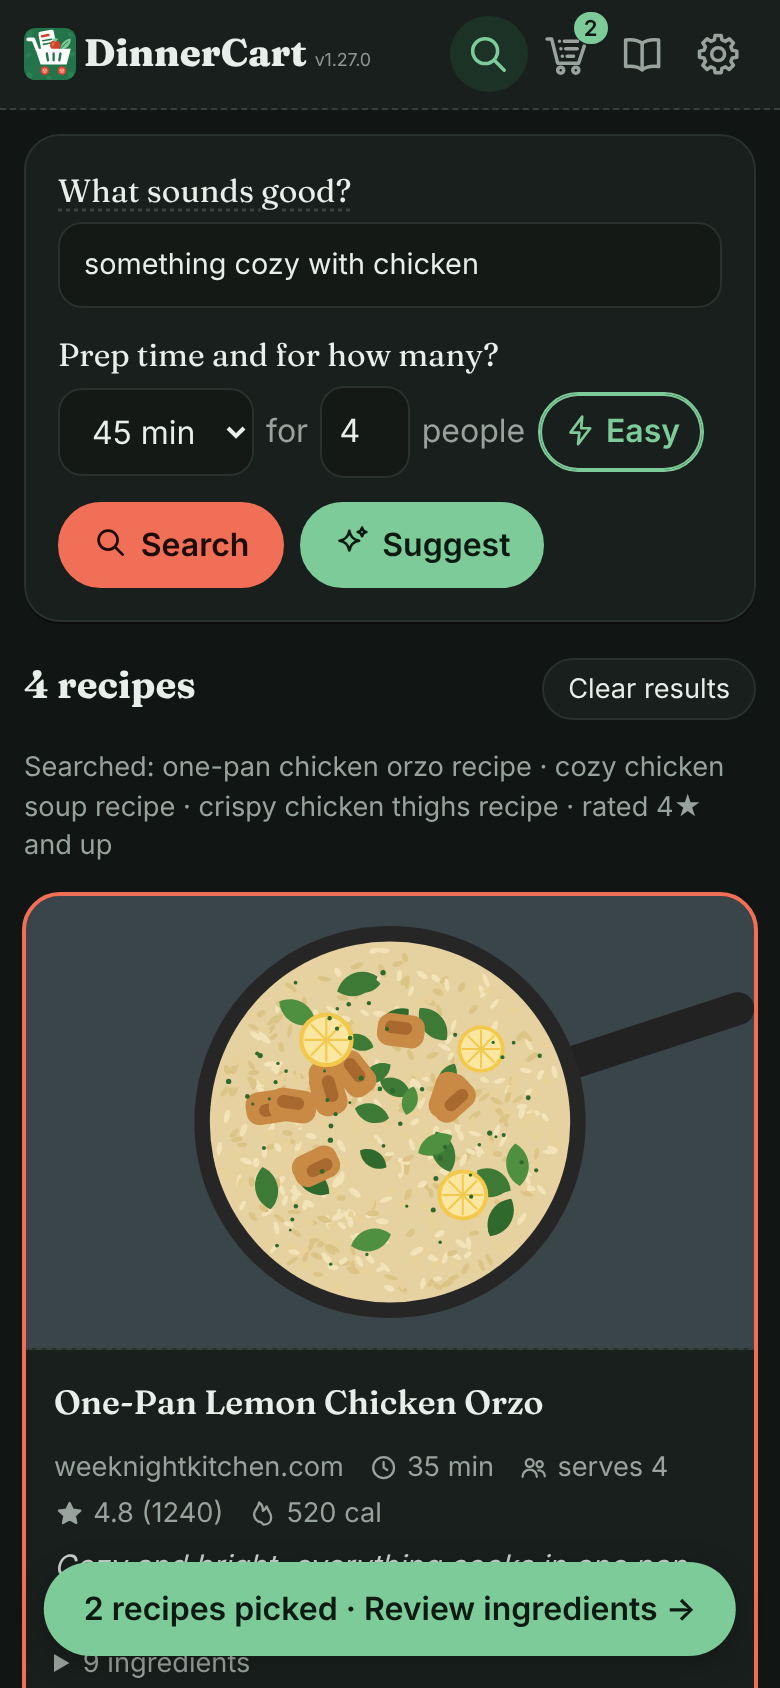
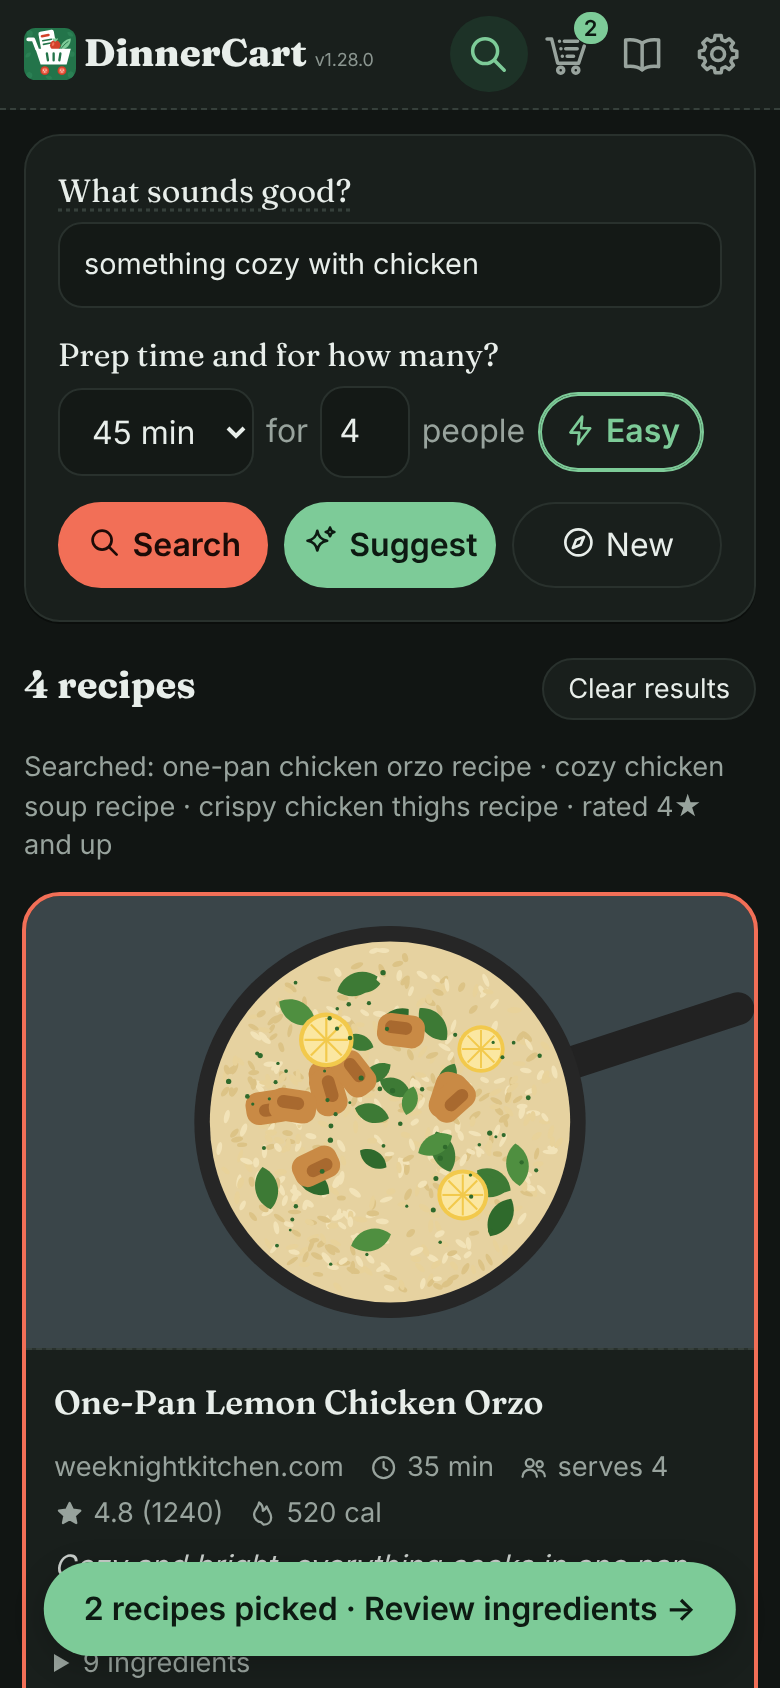
Search tab: "New" button (compass), the opposite of Suggest. Version 1.28.0.
- New reads the saved recipes to see what the household usually cooks, then
  writes queries for clearly different dishes (another cuisine, main
  ingredient and cooking style), still within anything typed. Ranking favors
  recipes unlike the saved ones, near-copies score low, and each reason says
  what's new. With nothing saved, it picks a mix of cuisines.
- Like Suggest it skips saved recipes and honors time, Easy, the leave-out
  list and the rating minimum. Results read "New to you: N recipes · Unlike
  your N saved recipes".
- Search, Suggest and New sit in one row of equal pills down to 320px.
- Tests for New; README text and screenshots updated.

Claude-Session: https://claude.ai/code/session_011FokuADmYxJrxvpFhkfgRT

Changed region(s): [[0.1231, 0.2773, 0.8615, 0.3697]]

diff --git a/web/js/recipes.js b/web/js/recipes.js
@@ -24,13 +24,18 @@ export function describeTaste(liked) {
 
 const QUERY_RULES = 'Each query should include the word "recipe", be 3-8 words, and approach it from a different angle. Don\'t put time limits or ratings in the query. Target free recipe sites/blogs, not videos or forums.';
 
-// `liked` (saved recipes) switches to recommendation mode: queries for new
-// dishes in the same vein, with any filled-in criteria as extra guidance.
-export async function generateQueries(gemini, criteria, { liked } = {}) {
+// `liked` (saved recipes) switches to Suggest: queries for new dishes in the
+// same vein, with any filled-in criteria as extra guidance. With `novel` too
+// (New), it's the opposite: dishes unlike anything they've saved.
+export async function generateQueries(gemini, criteria, { liked, novel = false } = {}) {
   const extra = describeCriteria(criteria);
   let prompt;
   const rules = `${QUERY_RULES}${criteria.easy ? ' They want it easy: put a word like "easy", "simple", "one-pan" or "5-ingredient" in at least two of the queries.' : ''}`;
-  if (!liked) {
+  if (liked && novel) {
+    prompt = liked.length
+      ? `A couple wants to try something new. Recipes they've saved (what they usually cook):\n${describeTaste(liked)}\n${extra ? `\nThey also said:\n${extra}\n` : ''}\nWrite 3 different web search queries for dishes clearly DIFFERENT from what they've saved: other cuisines, main ingredients or cooking methods than the ones above${extra ? ', while still matching what they said' : ''}. Mix it up: one from a cuisine they haven't saved anything from, one built on a main ingredient they rarely or never use, one cooking style they haven't tried (for example a braise, noodle soup, grain bowl or dumplings). Keep them approachable home dinners, not restaurant projects. ${rules}`
+      : `A couple wants to try something new for dinner.${extra ? `\nThey said:\n${extra}` : ''}\n\nWrite 3 different web search queries from three clearly different cuisines or styles of cooking, the kind of thing people don't make every week. Keep them approachable home dinners. ${rules}`;
+  } else if (!liked) {
     prompt = `Write 3 different web search queries that will find free recipe pages matching:\n${extra}\n\n${rules} (e.g. a specific dish, a key ingredient, a style).`;
   } else if (liked.length) {
     prompt = `A couple wants dinner ideas they'll probably like. Recipes they've saved (their taste):\n${describeTaste(liked)}\n${extra ? `\nThey also said:\n${extra}\n` : ''}\nWrite 3 different web search queries for NEW dishes they'd likely enjoy: related in cuisine, flavors or main ingredients to what they've saved, but not the same dishes. Mix it up: one close to their favorites, one from a neighboring cuisine, one a fresh take on an ingredient they use often. ${rules}`;
@@ -104,15 +109,18 @@ export function filterRecipes(recipes, c) {
   return { kept, rejected };
 }
 
-export async function rankRecipes(gemini, recipes, criteria, { liked } = {}) {
+export async function rankRecipes(gemini, recipes, criteria, { liked, novel = false } = {}) {
   if (!recipes.length) return [];
   const list = recipes.map((r, i) => [
     `[${i}] ${r.name} (${r.site})`,
     `time: ${r.totalMinutes ?? '?'} min; serves: ${r.servings ?? '?'}; steps: ${stepCount(r) ?? '?'}; rating: ${r.rating ? `${r.rating.value} (${r.rating.count ?? '?'} ratings)` : '?'}`,
     `ingredients: ${r.ingredients.slice(0, 25).join('; ')}`,
   ].join('\n')).join('\n\n');
+  const said = describeCriteria(criteria);
   const out = await gemini.json(
-    liked?.length
+    novel
+      ? `A couple wants to try something new.${liked?.length ? ` Recipes they've saved (what they usually cook):\n${describeTaste(liked)}\n` : '\n'}${said ? `\nThey also said:\n${said}\n` : ''}\nCandidate recipes:\n${list}\n\nScore each recipe 0-100: favor recipes clearly unlike what they've saved (a different cuisine, main ingredient or cooking method) that still fit anything they said, then ratings with many reviews. Near-copies of a saved recipe score below 20. Recipes that clearly contain an excluded ingredient score below 10. Give a one-sentence reason that says what's new about it for them.`
+      : liked?.length
       ? `A couple is choosing what to cook. Recipes they've saved (their taste):\n${describeTaste(liked)}\n${describeCriteria(criteria) ? `\nThey also said:\n${describeCriteria(criteria)}\n` : ''}\nCandidate recipes:\n${list}\n\nScore each recipe 0-100 for how likely they are to enjoy it given their taste (and anything they said), favoring variety over near-copies of what they've saved, then ratings with many reviews. Recipes that clearly contain an excluded ingredient score below 10. Give a one-sentence reason that connects it to their taste.`
       : `A couple is choosing what to cook. Their request:\n${describeCriteria(criteria) || 'Anything good for dinner'}\n\nCandidate recipes:\n${list}\n\nScore each recipe 0-100 for how well it fits the request (fit matters most, then ratings with many reviews, then a reasonable ingredient list). Recipes that clearly contain an excluded ingredient score below 10. Give a one-sentence reason a person would find useful (what makes it a good or poor fit).`,
     S.obj({ ranking: S.arr(S.obj({ index: S.int(), score: S.int(), reason: S.str() })) }),
@@ -124,10 +132,10 @@ export async function rankRecipes(gemini, recipes, criteria, { liked } = {}) {
   return scored.sort((a, b) => b.score - a.score);
 }
 
-// Pass `liked` (saved recipes, possibly empty) for recommendations.
-export async function findRecipes({ gemini, relay, criteria, liked, maxPages = 15, onProgress = () => {} }) {
-  onProgress(liked ? 'Thinking about what you might like…' : 'Writing search queries…');
-  const queries = await generateQueries(gemini, criteria, { liked });
+// Pass `liked` (saved recipes, possibly empty) for Suggest, plus `novel` for New.
+export async function findRecipes({ gemini, relay, criteria, liked, novel = false, maxPages = 15, onProgress = () => {} }) {
+  onProgress(novel ? 'Looking for something different…' : liked ? 'Thinking about what you might like…' : 'Writing search queries…');
+  const queries = await generateQueries(gemini, criteria, { liked, novel });
   if (!queries.length) throw new Error('Gemini did not return any search queries.');
 
   onProgress(`Searching: ${queries.join(' · ')}`);
@@ -143,7 +151,7 @@ export async function findRecipes({ gemini, relay, criteria, liked, maxPages = 1
   onProgress(`Ranking ${kept.length} recipes…`);
   let ranked;
   try {
-    ranked = await rankRecipes(gemini, kept, criteria, { liked });
+    ranked = await rankRecipes(gemini, kept, criteria, { liked, novel });
   } catch (err) {
     ranked = kept.map((recipe) => ({ recipe, score: 0, reason: `(not ranked: ${err.message})` }));
   }

diff --git a/web/js/app.js b/web/js/app.js
@@ -207,7 +207,9 @@ async function runSearch(event) {
     location.hash = 'settings';
     return;
   }
-  const recommend = event.submitter?.id === 'suggest-btn';
+  // Search, Suggest (more like your saved recipes) or New (unlike them).
+  const mode = { 'suggest-btn': 'recommend', 'new-btn': 'new' }[event.submitter?.id] || 'find';
+  const recommend = mode !== 'find';
   // What to leave out, the pantry and the Easy limits come from Config.
   const criteria = {
     ...readCriteria(event.target),
@@ -218,10 +220,10 @@ async function runSearch(event) {
     easyMaxSteps: easyLimits().maxSteps,
   };
   if (!recommend && !criteria.wants) {
-    setStatus(status, 'Tell me what sounds good, or try Suggest.', 'error');
+    setStatus(status, 'Tell me what sounds good, or try Suggest or New.', 'error');
     return;
   }
-  const buttons = [$('#search-btn'), $('#suggest-btn')];
+  const buttons = [$('#search-btn'), $('#suggest-btn'), $('#new-btn')];
   await guarded(status, async () => {
     buttons.forEach((b) => { b.disabled = true; });
     try {
@@ -231,8 +233,8 @@ async function runSearch(event) {
         if (!library) library = (await relay().library()).recipes;
         liked = library;
       }
-      const results = await findRecipes({ gemini: gemini(), relay: relay(), criteria, liked, onProgress: (t) => setStatus(status, t) });
-      state.results = { ...results, mode: recommend ? 'recommend' : 'find', basedOn: liked?.length || 0, minRating: criteria.minRating, at: Date.now() };
+      const results = await findRecipes({ gemini: gemini(), relay: relay(), criteria, liked, novel: mode === 'new', onProgress: (t) => setStatus(status, t) });
+      state.results = { ...results, mode, basedOn: liked?.length || 0, minRating: criteria.minRating, at: Date.now() };
       persist();
       setStatus(status, '');
       renderResults();
@@ -240,6 +242,12 @@ async function runSearch(event) {
       buttons.forEach((b) => { b.disabled = false; });
     }
   });
+}
+
+function resultsBasis(r) {
+  if (r.mode === 'recommend') return r.basedOn ? `Based on ${plural(r.basedOn, 'saved recipe')} · ` : 'No saved recipes yet, so these are popular picks · ';
+  if (r.mode === 'new') return r.basedOn ? `Unlike your ${plural(r.basedOn, 'saved recipe')} · ` : 'A mix of cuisines to start · ';
+  return '';
 }
 
 function renderResults() {
@@ -253,10 +261,10 @@ function renderResults() {
   const failed = r.failed || [];
   el.innerHTML = `
     <div class="section-title">
-      <h2>${r.ranked.length ? `${r.mode === 'recommend' ? 'Suggested: ' : ''}${plural(r.ranked.length, 'recipe')}` : 'No recipes matched'}</h2>
+      <h2>${r.ranked.length ? `${{ recommend: 'Suggested: ', new: 'New to you: ' }[r.mode] || ''}${plural(r.ranked.length, 'recipe')}` : 'No recipes matched'}</h2>
       <button class="small" data-action="clear-results">Clear results</button>
     </div>
-    <p class="muted small-text">${r.mode === 'recommend' ? (r.basedOn ? `Based on ${plural(r.basedOn, 'saved recipe')} · ` : 'No saved recipes yet, so these are popular picks · ') : ''}Searched: ${r.queries.map(h).join(' · ')}${r.minRating ? ` · rated ${h(r.minRating)}★ and up` : ''}</p>
+    <p class="muted small-text">${resultsBasis(r)}Searched: ${r.queries.map(h).join(' · ')}${r.minRating ? ` · rated ${h(r.minRating)}★ and up` : ''}</p>
     <div class="grid">${r.ranked.map((x) => recipeCard(x.recipe, { reason: x.reason })).join('')}</div>
     ${rejected.length ? `<details class="card small-text"><summary>${rejected.length} filtered out</summary><ul>${rejected.map((x) =>
       `<li><a href="${h(x.recipe.url)}" target="_blank" rel="noopener">${h(x.recipe.name)}</a> — ${h(x.reason)}</li>`).join('')}</ul></details>` : ''}

diff --git a/test/resolver.test.js b/test/resolver.test.js
@@ -275,3 +275,31 @@ test('Easy applies to Suggest (recommendations) as well as Search', async () => 
   assert.deepEqual(out.rejected.map((r) => r.reason), ['15 ingredients (Easy: 10 max)']);
   assert.match(prompts[1], /Easy: few ingredients/, 'ranking knows too');
 });
+
+test('New: queries and ranking aim away from saved recipes, still honoring inputs and Easy', async () => {
+  const recipe = (n, ingredients) => ({ url: `https://x.test/${n}`, name: n, site: 'x.test', ingredients, instructions: ['Cook.'], totalMinutes: 30, rating: null });
+  const pages = {
+    'https://x.test/saved': recipe('saved', ['chicken']),
+    'https://x.test/laksa': recipe('laksa', ['noodles', 'coconut milk', 'shrimp']),
+    'https://x.test/fussy': recipe('fussy', Array.from({ length: 15 }, (_, i) => `thing ${i}`)),
+  };
+  const relay = { search: async () => ({ results: Object.keys(pages).map((url) => ({ url })) }), recipe: async (url) => ({ recipe: pages[url] }) };
+  const prompts = [];
+  const gemini = { json: async (p) => {
+    prompts.push(p);
+    return p.includes('Candidate recipes:') ? { ranking: [{ index: 0, score: 88, reason: 'A Malaysian noodle soup, unlike your Mexican favorites.' }] } : { queries: ['laksa recipe'] };
+  } };
+  const liked = [{ url: 'https://x.test/saved', name: 'Saved tacos', cuisine: ['Mexican'] }];
+  const out = await findRecipes({ gemini, relay, criteria: { wants: 'soup', easy: true, easyMaxIngredients: 10, easyMaxSteps: 8 }, liked, novel: true });
+  assert.match(prompts[0], /try something new[\s\S]*Saved tacos/);
+  assert.match(prompts[0], /clearly DIFFERENT from what they've saved/);
+  assert.match(prompts[0], /Looking for: soup/, 'what they typed still counts');
+  assert.match(prompts[0], /They want it easy/);
+  assert.match(prompts[1], /clearly unlike what they've saved/);
+  assert.deepEqual(out.ranked.map((r) => r.recipe.name), ['laksa']);
+  assert.deepEqual(out.rejected.map((r) => r.reason).sort(), ['15 ingredients (Easy: 10 max)', 'already in Save']);
+
+  prompts.length = 0;
+  await generateQueries(gemini, {}, { liked: [], novel: true });
+  assert.match(prompts[0], /three clearly different cuisines/, 'nothing saved yet');
+});

diff --git a/web/styles.css b/web/styles.css
@@ -114,6 +114,9 @@ fieldset input { width: auto; }
 .row input { flex: 1; min-width: 0; }
 .actions { display: flex; flex-wrap: wrap; gap: 8px; }
 .actions button { white-space: normal; }
+/* Search, Suggest and New: three equal pills on one row. */
+.search-actions { display: grid; grid-template-columns: repeat(3, 1fr); gap: 8px; }
+.search-actions button { padding-left: 8px; padding-right: 8px; gap: 5px; white-space: nowrap; min-width: 0; }
 .hint { margin: -6px 0 0; font-size: 0.85rem; color: var(--muted); }
 .inline-check { flex-direction: row; align-items: center; gap: 8px; color: var(--text); cursor: pointer; }
 .inline-check input { width: auto; accent-color: var(--basil); }
@@ -292,6 +295,8 @@ body:not(.cook-open) .timers { bottom: 72px; }
 @media (max-width: 380px) {
   /* "Prep time and for how many?" already says it; keeps Easy on the same row. */
   .for-word { display: none; }
+  .search-actions { gap: 6px; }
+  .search-actions button { padding-left: 4px; padding-right: 4px; gap: 4px; font-size: 0.94rem; }
   .top { padding: 8px 10px; }
   .brand { font-size: 1.12rem; gap: 3px; }
   nav a { padding: 7px 5px; font-size: 20px; }

diff --git a/web/js/icons.js b/web/js/icons.js
@@ -20,6 +20,8 @@ const PATHS = {
   anvil: '<path d="M8 5.5h13v4h-4.6l-.9 3.8 2.8 2.6v3.6H6.7v-3.6l2.8-2.6-.9-3.8C5.8 9.5 3.6 8.6 2.5 6.6 4 5.9 5.8 5.5 8 5.5z"/>',
   // Feather from Tabler Icons (MIT License, (c) 2020-2024 Paweł Kuna, https://tabler.io/icons).
   feather: '<path d="M4 20l10 -10m0 -5v5h5m-9 -1v5h5m-9 -1v5h5m-5 -5l4 -4l4 -4"/><path d="M19 10c.638 -.636 1 -1.515 1 -2.486a3.515 3.515 0 0 0 -3.517 -3.514c-.97 0 -1.847 .367 -2.483 1m-3 13l4 -4l4 -4"/>',
+  // Compass (New: something different).
+  compass: '<circle cx="12" cy="12" r="8.5"/><path d="M15.6 8.4l-2.1 5.1-5.1 2.1 2.1-5.1z"/>',
   // Twinkle (Suggest).
   sparkle: '<path d="M10 4.5c.6 3.8 2.6 5.8 6.4 6.4-3.8.6-5.8 2.6-6.4 6.4-.6-3.8-2.6-5.8-6.4-6.4 3.8-.6 5.8-2.6 6.4-6.4z"/><path d="M18.3 2.4c.3 1.6 1.2 2.5 2.8 2.8-1.6.3-2.5 1.2-2.8 2.8-.3-1.6-1.2-2.5-2.8-2.8 1.6-.3 2.5-1.2 2.8-2.8z"/>',
   trash: '<path d="M4.5 7h15"/><path d="M9.5 7V5.2a1 1 0 0 1 1-1h3a1 1 0 0 1 1 1V7"/><path d="M6.5 7l.9 11.6a1.5 1.5 0 0 0 1.5 1.4h6.2a1.5 1.5 0 0 0 1.5-1.4L17.5 7"/><path d="M10.2 10.8v5.6M13.8 10.8v5.6"/>',

diff --git a/web/index.html b/web/index.html
@@ -50,9 +50,10 @@
           <span class="muted">people</span>
           <label class="pill-toggle" title="Few ingredients, few steps, nothing fussy"><input type="checkbox" name="easy"><span data-icon="bolt"></span> Easy</label>
         </fieldset>
-        <div class="wide actions">
+        <div class="wide actions search-actions">
           <button type="submit" class="primary" id="search-btn"><span data-icon="search"></span> Search</button>
           <button type="submit" class="basil" id="suggest-btn" title="Ideas based on your saved recipes, plus anything filled in above"><span data-icon="sparkle"></span> Suggest</button>
+          <button type="submit" id="new-btn" title="Something different from your saved recipes, plus anything filled in above"><span data-icon="compass"></span> New</button>
         </div>
       </form>
       <div id="find-status" class="status" hidden></div>

diff --git a/web/js/version.js b/web/js/version.js
@@ -1,2 +1,2 @@
 // Bump this with every change to the app.
-export const VERSION = '1.27.0';
+export const VERSION = '1.28.0';

diff --git a/README.md b/README.md
@@ -58,7 +58,7 @@ single-use `state` value.
 | `web/js/app.js` | UI controller: views, events, settings. |
 | `web/js/resolver.js` | Ingredient resolver (normalize → pantry → merge → search → pick → package count). Shared with the eval. |
 | `web/js/units.js` | Unit conversion and Kroger size parsing (`"6 ct / 12 fl oz"`, `"1/2 gal"`…). |
-| `web/js/recipes.js` | Query generation (Search and Suggest), structured filters, Gemini ranking. |
+| `web/js/recipes.js` | Query generation (Search, Suggest and New), structured filters, Gemini ranking. |
 | `web/js/gemini.js` | Gemini client with the strong → light fallback. |
 | `web/js/suggestions.js` | Rotating "What sounds good?" ideas and the daily Gemini batch. |
 | `web/js/cook.js`, `web/js/cook-view.js` | Cook: easy steps written by Gemini from the recipe's own method, amount scaling, and the Cook screen (ticks, timers, screen stays on). |
@@ -192,11 +192,14 @@ icons only.
   10 ingredients (pantry staples don't count) and 8 steps, both adjustable in
   Config, with searches and ranking steered toward simple, one-pan dishes.
   It's separate from time, so an easy one-hour roast still counts. It applies
-  to Search and Suggest alike, and Config can turn it on by default.
+  to Search, Suggest and New alike, and Config can turn it on by default.
 - **Search** (red) finds recipes for what you typed. **Suggest** (green) needs
   nothing filled in: Gemini looks at your saved recipes (plus anything you
   typed) and finds new dishes in a similar vein, skipping ones you've already
-  saved.
+  saved. **New** (compass) is the opposite: it reads your saved recipes to see
+  what you usually cook, then looks for something different (other cuisines,
+  main ingredients and cooking styles), still within anything you typed. With
+  nothing saved yet, it picks a mix of cuisines.
 - Every search skips recipes with anything on the household **what to leave
   out** list (Config), rated below the household minimum (Config, default 4★;
   unrated ones are kept), over the time, or over the Easy limits. Skipped
@@ -344,11 +347,11 @@ the original page's instructions, and always links to the source page.
 - [x] Kroger: OAuth (authorization code + refresh), product search, location search, batched cart add through the relay. Finding: Kroger *does* allow browser CORS (a direct call returns HTTP 401, not a CORS error), but the relay is still required because the client secret and the user tokens must not live in the browser.
 - [x] Ingredient resolver + 50-line eval set + scoring script.
 - [x] Recipe search: Brave + JSON-LD extraction in the Worker.
-- [x] UI: criteria, results, review screen, settings (Gemini key, relay password, store, pantry), plus Suggest, daily ideas and the Tomato & Basil design.
+- [x] UI: criteria, results, review screen, settings (Gemini key, relay password, store, pantry), plus Suggest, New, daily ideas and the Tomato & Basil design.
 - [x] Saved recipe library, plus KV caching of parsed recipes and search results.
 
 Added since: Cook (easy, scaled, checked steps with timers), the Easy filter,
-Suggest and daily ideas, direct-from-phone product search, the Fred Meyer
+Suggest, New and daily ideas, direct-from-phone product search, the Fred Meyer
 cart and orders links, the one-tap setup link, and deploys that work for any
 fork.
 
